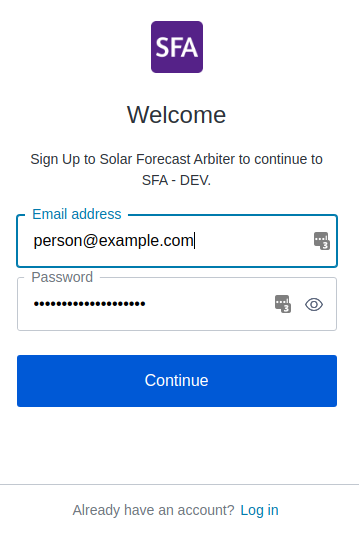
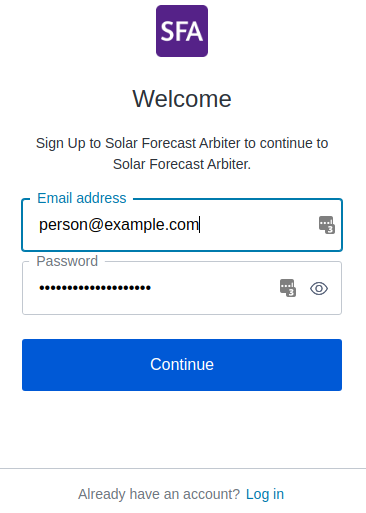
use prod signup form, remove unnecessary admin sentence

Changed region(s): [[0.0306, 0.0, 0.9499, 0.6238], [0.0, 0.9045, 1.0, 0.9981], [0.0306, 0.655, 0.9499, 0.7797]]

diff --git a/documentation/dashboard/getting_started.md b/documentation/dashboard/getting_started.md
@@ -57,8 +57,7 @@ Users who want to use the Solar Forecast Arbiter with their own data can
 
 Organizations are groups of users whose permissions and data are managed by
 the same group of administrators. An organization retains ownership of all data
-submitted by its members. Only organization administrators will be authorized
-to grant users permissions to view or alter data owned by their organization.
+submitted by its members.
 
 #### Creating an Organization
 {: .anchor}
